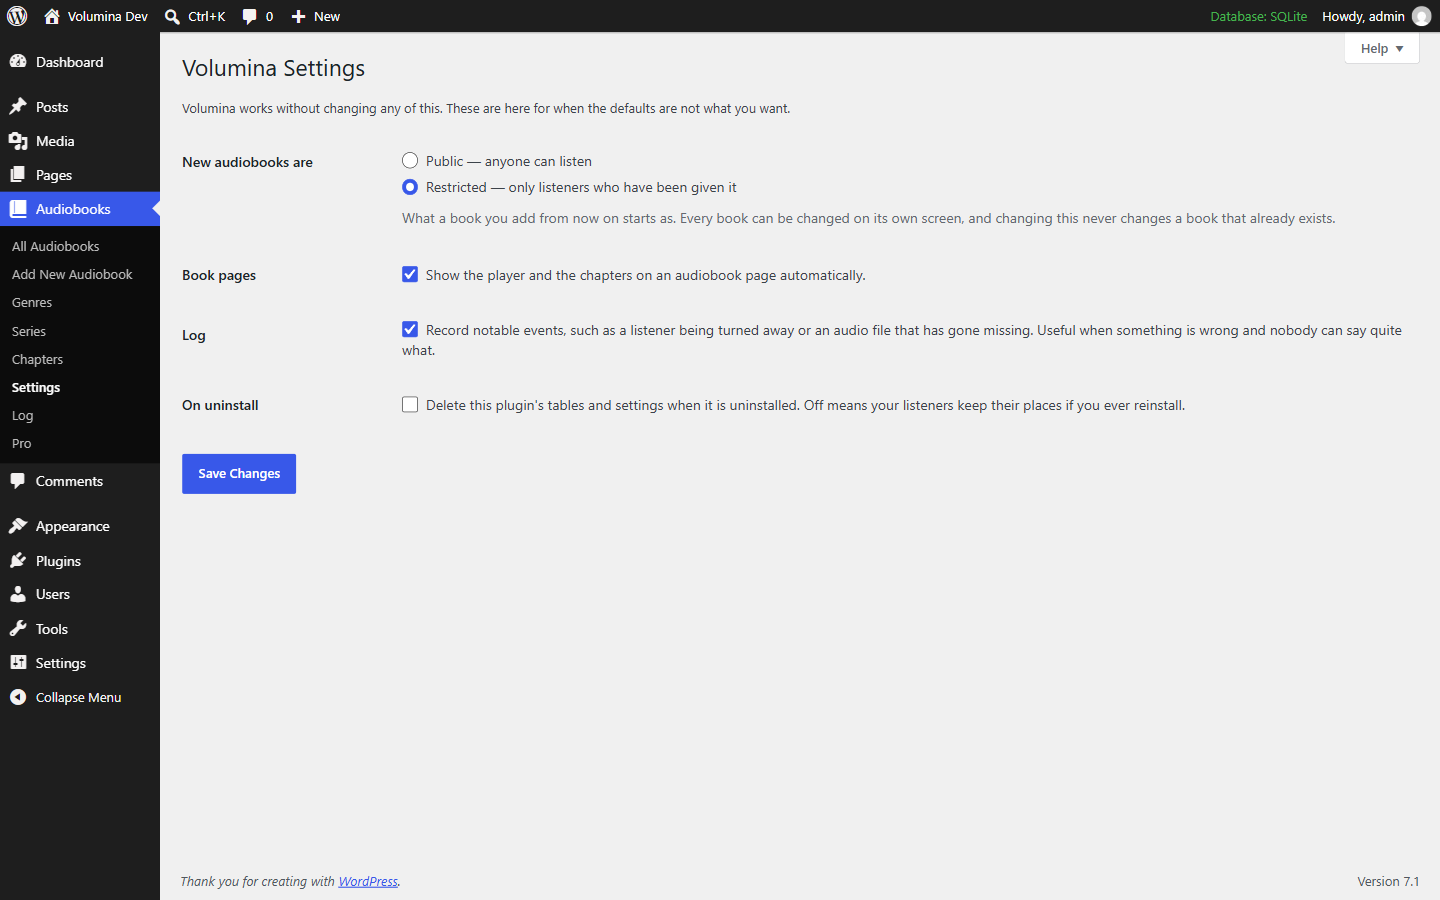
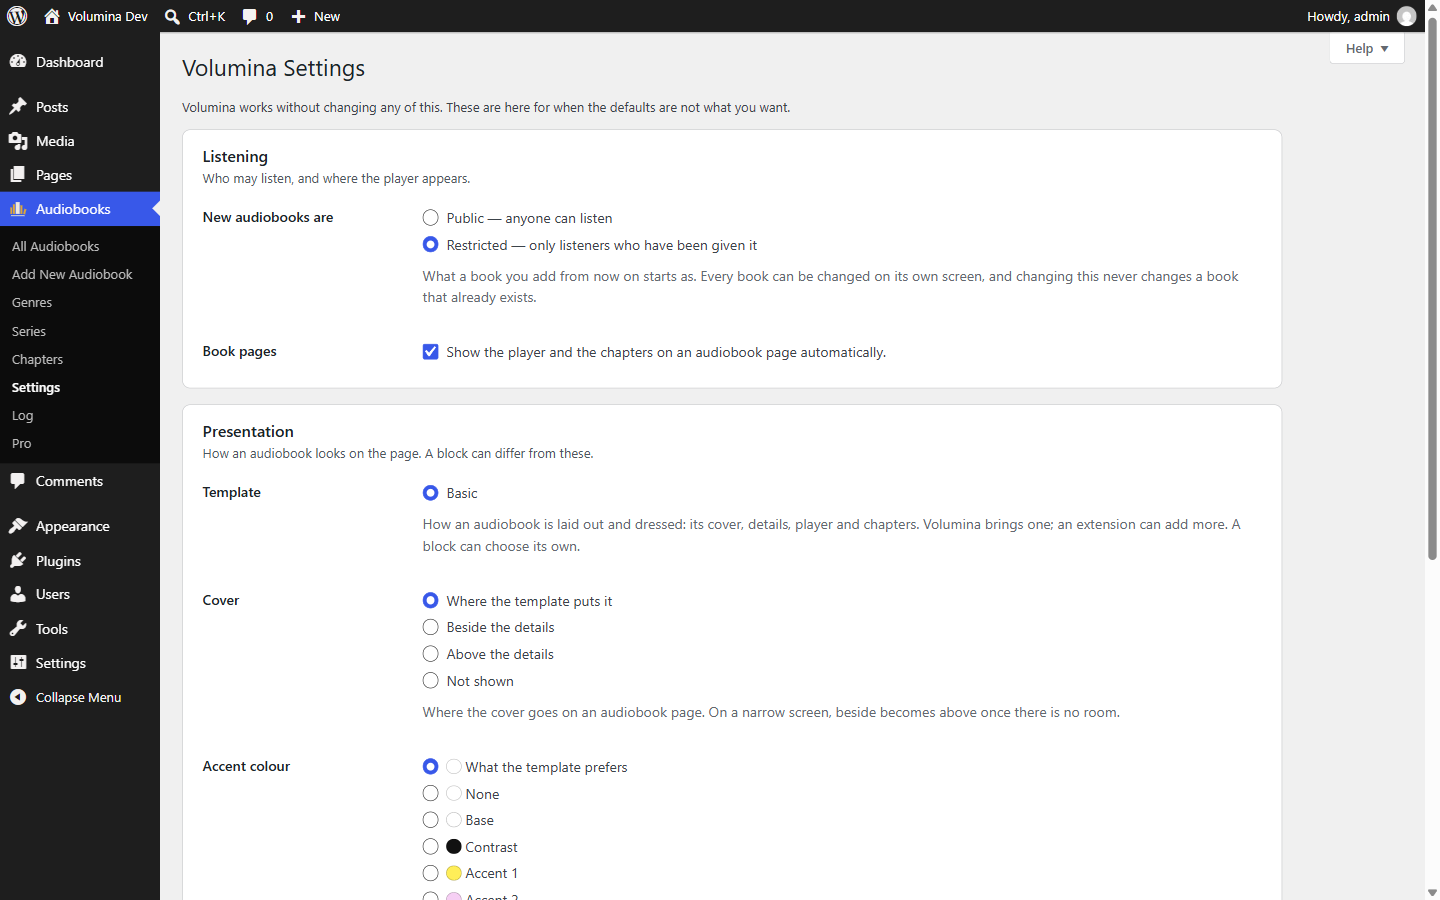
fix: settings fieldsets named by a legend, checkboxes labelled once; screenshots 5 and 6
Axe over the settings screen in its card form: zero violations, and
the three "needs review" — a checkbox with the row heading's label
and its own — gone: a control that labels itself gets a plain row
heading, and a fieldset of radios or swatches a screen-reader legend.

Screenshot 5 shows the settings in their three groups with the palette
as swatches; screenshot 6 the welcome page under Dashboard. Both
rendered in process in English, whatever the site's language.

diff --git a/src/Support/Settings/Field.php b/src/Support/Settings/Field.php
@@ -82,6 +82,14 @@ final class Field {
 	}
 
 	/**
+	 * Whether the control carries its own label, as a checkbox does with the
+	 * text beside it, or a fieldset of radios with each choice.
+	 */
+	public function labels_itself(): bool {
+		return in_array( $this->args['type'], array( 'checkbox', 'radio', 'swatches' ), true );
+	}
+
+	/**
 	 * The section of the screen it belongs to, or empty.
 	 */
 	public function section(): string {
@@ -216,7 +224,9 @@ final class Field {
 				break;
 
 			case 'radio':
-				echo '<fieldset>';
+				// The row heading is plain text for a fieldset, so the group is named
+				// here, for screen readers, and only here.
+				printf( '<fieldset><legend class="screen-reader-text">%s</legend>', esc_html( $this->label() ) );
 
 				foreach ( $this->choices() as $choice => $label ) {
 					printf(
@@ -234,7 +244,9 @@ final class Field {
 			case 'swatches':
 				// Radios with a colour beside each label. The colour is decoration:
 				// the label carries the meaning, so nothing depends on seeing it.
-				echo '<fieldset>';
+				// The row heading is plain text for a fieldset, so the group is named
+				// here, for screen readers, and only here.
+				printf( '<fieldset><legend class="screen-reader-text">%s</legend>', esc_html( $this->label() ) );
 
 				foreach ( $this->choices() as $choice => $swatch ) {
 					$color = is_array( $swatch ) ? (string) ( $swatch['color'] ?? '' ) : '';

diff --git a/src/Support/Settings/Group.php b/src/Support/Settings/Group.php
@@ -195,11 +195,20 @@ final class Group {
 			$key = $field->key();
 
 			echo '<tr>';
-			printf(
-				'<th scope="row"><label for="%1$s">%2$s</label></th>',
-				esc_attr( 'volumina-setting-' . $key ),
-				esc_html( $field->label() )
-			);
+
+			// A control that labels itself — a checkbox with its text, radios with
+			// their choices — gets a plain row heading: a second <label> pointed at
+			// it would be read out twice, and pointed at a fieldset would name
+			// nothing.
+			if ( $field->labels_itself() ) {
+				printf( '<th scope="row">%s</th>', esc_html( $field->label() ) );
+			} else {
+				printf(
+					'<th scope="row"><label for="%1$s">%2$s</label></th>',
+					esc_attr( 'volumina-setting-' . $key ),
+					esc_html( $field->label() )
+				);
+			}
 			echo '<td>';
 
 			$field->render(
